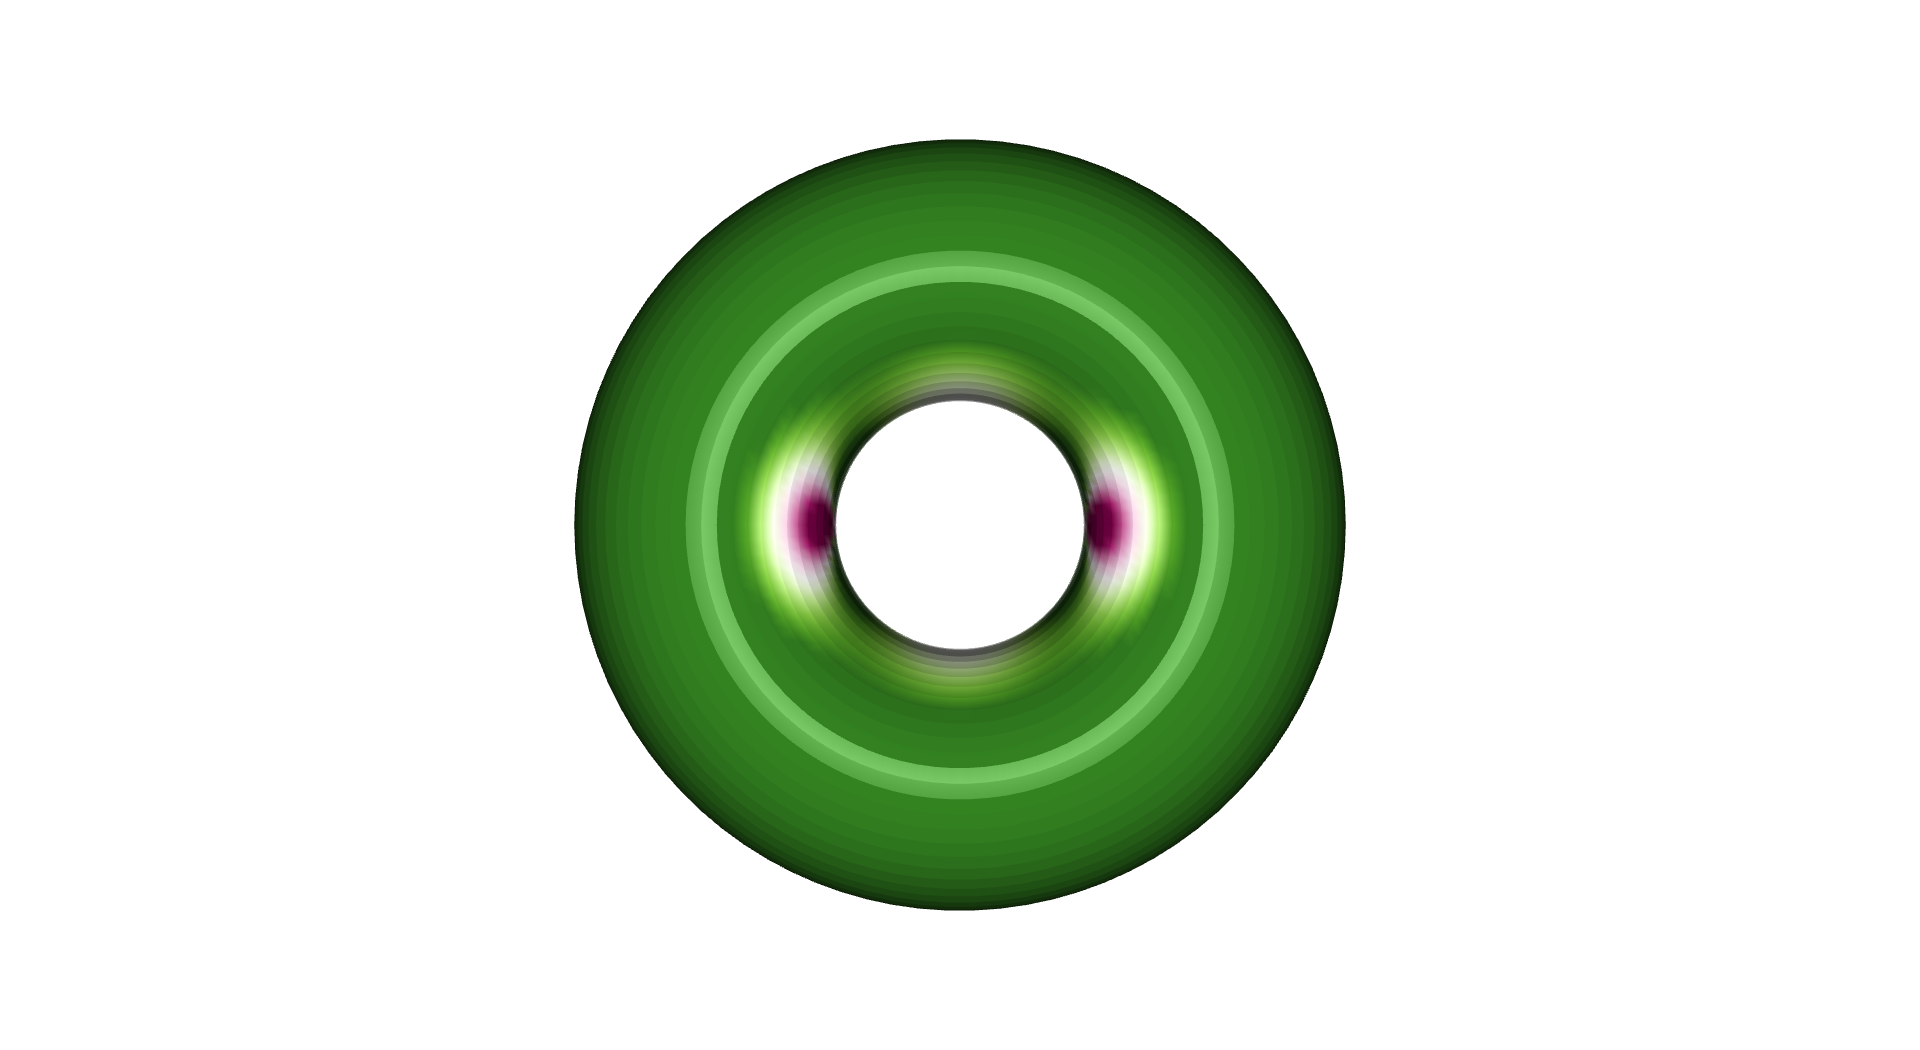
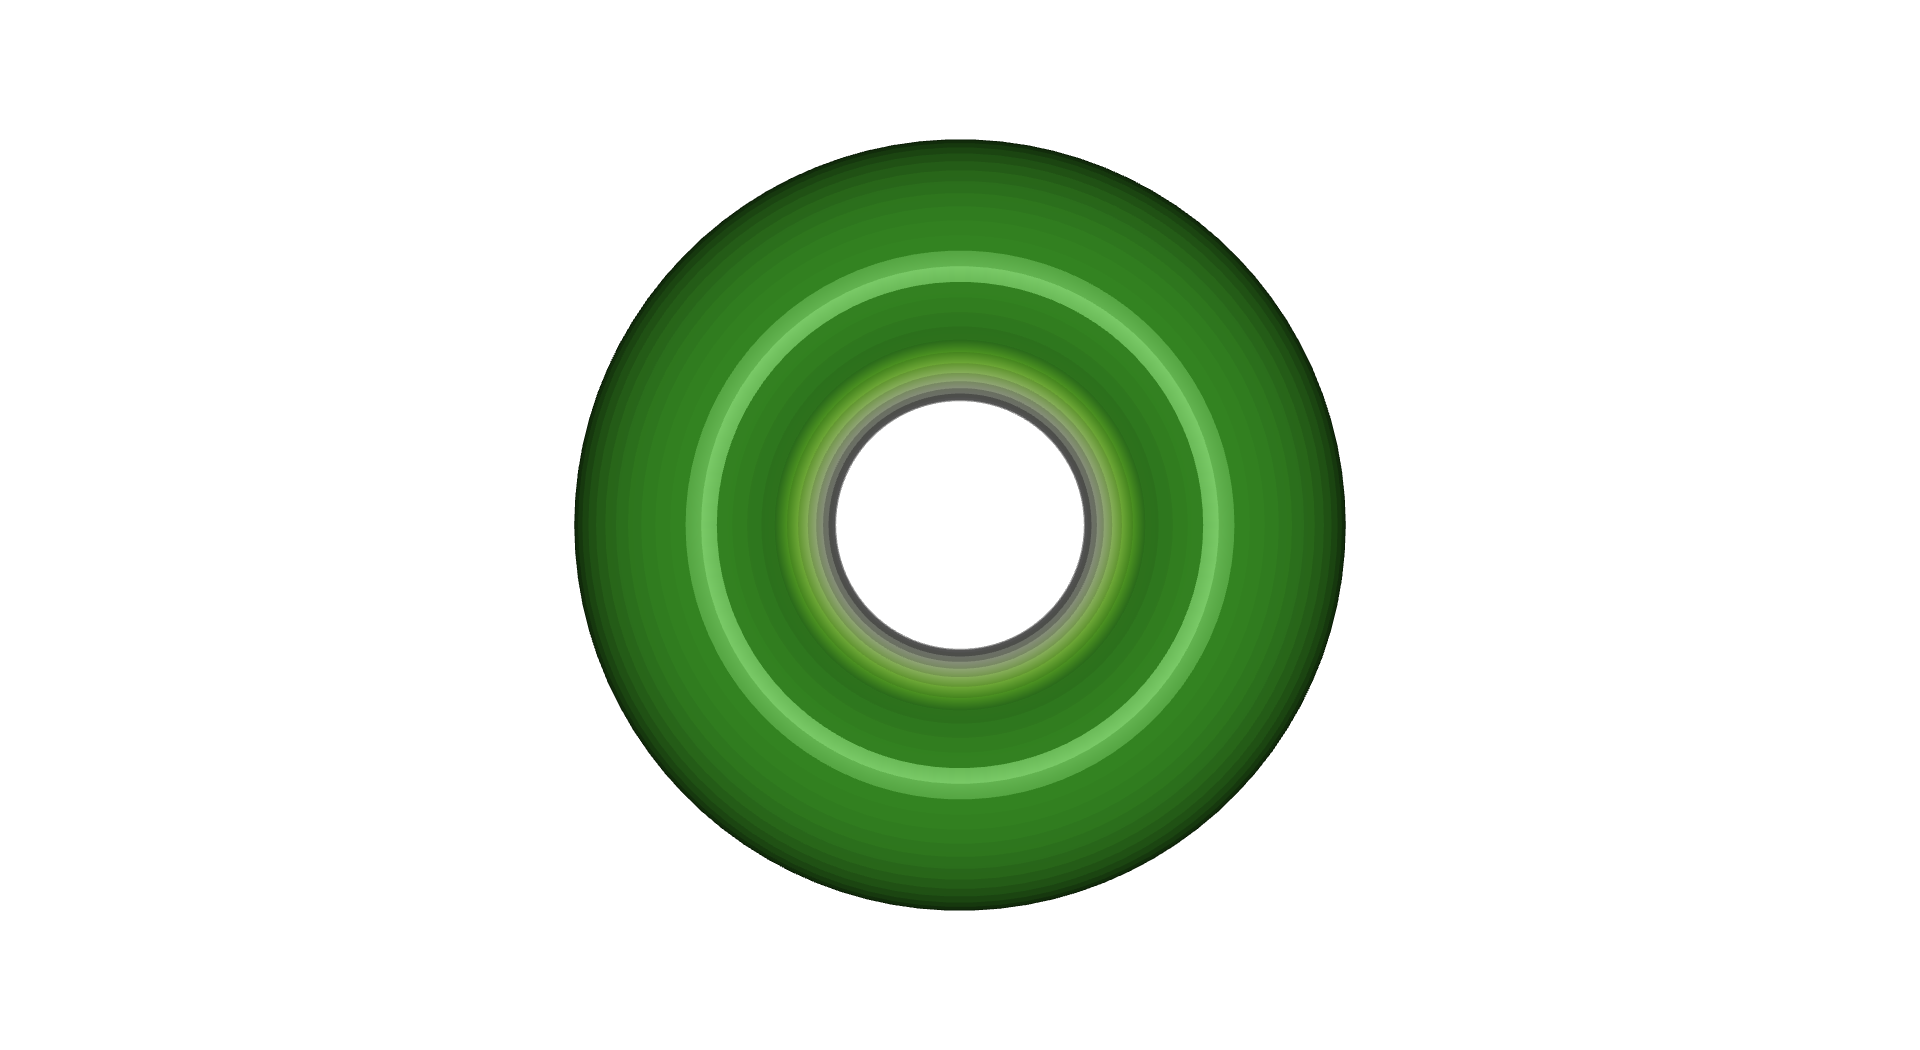
Fixed bug in Rusinkiewicz

Changed region(s): [[0.375, 0.3352, 0.625, 0.64]]

diff --git a/scripts/curvature.py b/scripts/curvature.py
@@ -150,10 +150,14 @@ def compute_curvature_directions_taubin(mesh):
 
     return curvature_min, curvature_max, eig_min, eig_max, confidence
 
+def rand_vec(shape):
+    p = np.random.normal(0, 1.0, shape)
+    return p / np.linalg.norm(p)
+
 def normalize(p):
     lenp = np.linalg.norm(p)
     if lenp < 1e-8:
-        return np.array([1,0,0], dtype=float)
+        return rand_vec(p.shape)
     return p / lenp
 
 def compute_voronoi_area(a, b, c):
@@ -187,10 +191,10 @@ def compute_curvature_directions_rusinkiewicz(mesh):
     confidence = np.zeros((n,), dtype=float)
 
     for i in range(n):
-        test = np.array([1, 0, 0], dtype=float)
-        if np.linalg.norm(np.cross(test, normals[i])) < 1e-2:
-            test = np.array([0, 1, 0], dtype=float)
-        coordinates[i,0,:] = test - np.dot(test, normals[i]) * normals[i]
+        test = rand_vec((3,))
+        while np.linalg.norm(np.cross(test, normals[i])) < 5e-1:
+            test = rand_vec((3,))
+        coordinates[i,0,:] = normalize(test - np.dot(test, normals[i]) * normals[i])
         coordinates[i,1,:] = normals[i]
         coordinates[i,2,:] = normalize(np.cross(coordinates[i,0,:], coordinates[i,1,:]))
 
@@ -432,15 +436,14 @@ def torus_experiment(taubin=False):
     mesh.vertex_colors = o3d.utility.Vector3dVector(old_colors)
 
 if __name__ == "__main__":
-    mesh = o3d.io.read_triangle_mesh("../models/bunny/reconstruction/bun_zipper.ply")
-    # #mesh = o3d.io.read_triangle_mesh("../models/csg.ply")
-    # mesh = mesh_from_sdf(1, 160)
-    mesh = center_mesh(mesh)
+    #mesh = o3d.io.read_triangle_mesh("../models/bunny/reconstruction/bun_zipper.ply")
+    #mesh = o3d.io.read_triangle_mesh("../models/csg.ply")
+    #mesh = mesh_from_sdf(1, 160)
+    #mesh = center_mesh(mesh)
     #mesh = o3d.geometry.TriangleMesh.create_torus(torus_radius=1.0, tube_radius=0.5, radial_resolution=90, tubular_resolution=60)
     #mesh = o3d.geometry.TriangleMesh.create_sphere(radius=1.0, resolution=20)
-
-    compare_taubin_rusinkiewicz(mesh)
-    exit()
+    #compare_taubin_rusinkiewicz(mesh)
+    #exit()
     parser = argparse.ArgumentParser()
     parser.add_argument(
         "--source",

diff --git a/scripts/experiments.py b/scripts/experiments.py
@@ -88,9 +88,7 @@ def simple_check():
     )
 
     curvature_min, curvature_max, eig_min, eig_max, _ = compute_curvature_directions_taubin(mesh)
-    print(np.array(mesh.vertex_normals))
 
-
-simple_check()
-#torus_experiment(compute_curvature_directions_taubin, "taubin")
-#torus_experiment(compute_curvature_directions_rusinkiewicz, "rusinkiewicz")
+#simple_check()
+torus_experiment(compute_curvature_directions_taubin, "taubin")
+torus_experiment(compute_curvature_directions_rusinkiewicz, "rusinkiewicz")
